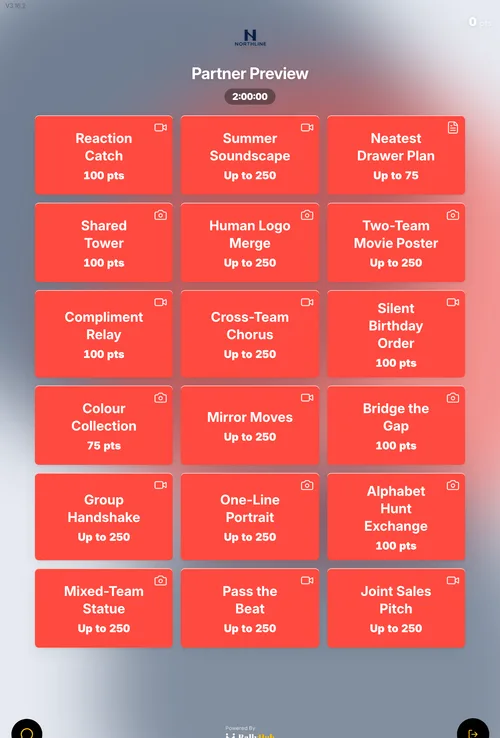
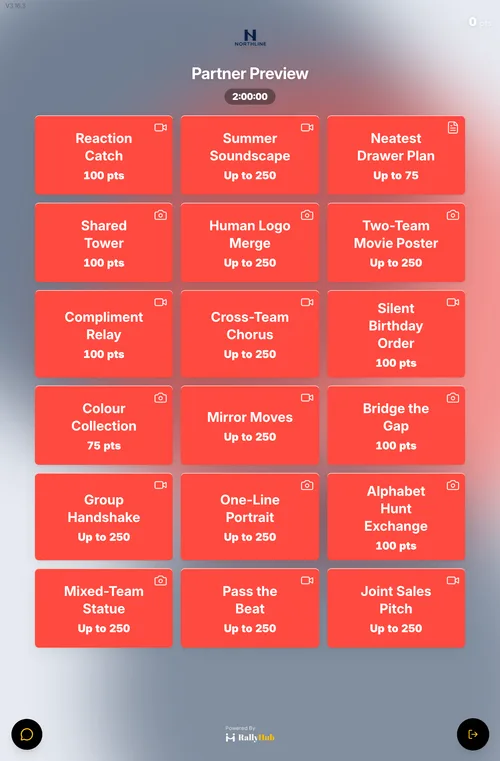
fix(marketing): keep the player-screen footer, enlarge tablet mock (V3.16.4)

diff --git a/src/components/marketing/home/DeviceMock.tsx b/src/components/marketing/home/DeviceMock.tsx
@@ -11,6 +11,8 @@ type DeviceMockProps = {
   widths: number[]
   sizes?: string
   className?: string
+  /** Screenshot ratio. Must match the assets or the footer gets cropped away. */
+  aspect?: string
 }
 
 /**
@@ -20,13 +22,20 @@ type DeviceMockProps = {
  * opacity. Swapping the src (or remounting via key) makes the browser drop the
  * painted frame first, which reads as a flicker.
  */
-export function DeviceMock({ screens, activeId, widths, sizes, className }: DeviceMockProps) {
+export function DeviceMock({
+  screens,
+  activeId,
+  widths,
+  sizes,
+  className,
+  aspect = '1488 / 2196',
+}: DeviceMockProps) {
   const srcSet = (base: string, ext: 'webp' | 'jpg') =>
     widths.map((w) => `${base}-${w}.${ext} ${w}w`).join(', ')
 
   return (
     <div className={className ? `mk-ipad ${className}` : 'mk-ipad'}>
-      <div className="mk-ipad-screen">
+      <div className="mk-ipad-screen" style={{ aspectRatio: aspect }}>
         {screens.map((screen) => {
           const isActive = screen.id === activeId
           return (

diff --git a/src/components/marketing/home/BrandingPreview.tsx b/src/components/marketing/home/BrandingPreview.tsx
@@ -69,7 +69,9 @@ export function BrandingPreview() {
               alt: `The same RallyHub challenge board wearing ${c.label} branding: their logo and their colours on every tile`,
             }))}
             widths={[500, 900]}
-            sizes="(max-width: 1024px) 78vw, 380px"
+            /* Full screen height, so Powered By and the chat/exit buttons stay in frame. */
+            aspect="1488 / 2266"
+            sizes="(max-width: 1024px) 82vw, 440px"
           />
           <p className="mk-caption">
             {current.label}. Same event, same screen, their brand.

diff --git a/src/lib/version.ts b/src/lib/version.ts
@@ -1,5 +1,5 @@
 // Bump APP_VERSION on each meaningful update and add a line to CHANGELOG.md.
 // Shown small under the Sign out button in the admin sidebar.
-export const APP_VERSION = 'V3.16.3'
+export const APP_VERSION = 'V3.16.4'
 
 export const APP_BUILD_LABEL = `Build: ${APP_VERSION}`

diff --git a/src/styles/marketing-home.css b/src/styles/marketing-home.css
@@ -549,7 +549,7 @@
 .mk-ipad {
   position: relative;
   margin-inline: auto;
-  max-width: 380px;
+  max-width: 440px;
   padding: 12px;
   border-radius: 30px;
   background: linear-gradient(160deg, #3a3630, #201d19 55%, #35302a);

diff --git a/CHANGELOG.md b/CHANGELOG.md
@@ -5,6 +5,14 @@ Bump `APP_VERSION` and add an entry here on each meaningful update merged to `ma
 Numbering: first = major updates, second = bigger batches of features/redesigns,
 third = small fixes (e.g. 2.1.1).
 
+## V3.16.4 - 2026-08-09
+
+- Client screens keep their footer: the tablet mock was cropping the bottom
+  70px, which is exactly where "Powered By RallyHub" and the chat and exit
+  buttons sit. The mock now takes the screenshot ratio per section, and the
+  three client boards were recaptured at full screen height.
+- Tablet mock enlarged so the event logo and score are legible.
+
 ## V3.16.3 - 2026-08-09
 
 - Hero: headline breaks onto two fixed lines and the whole block sits at mid
